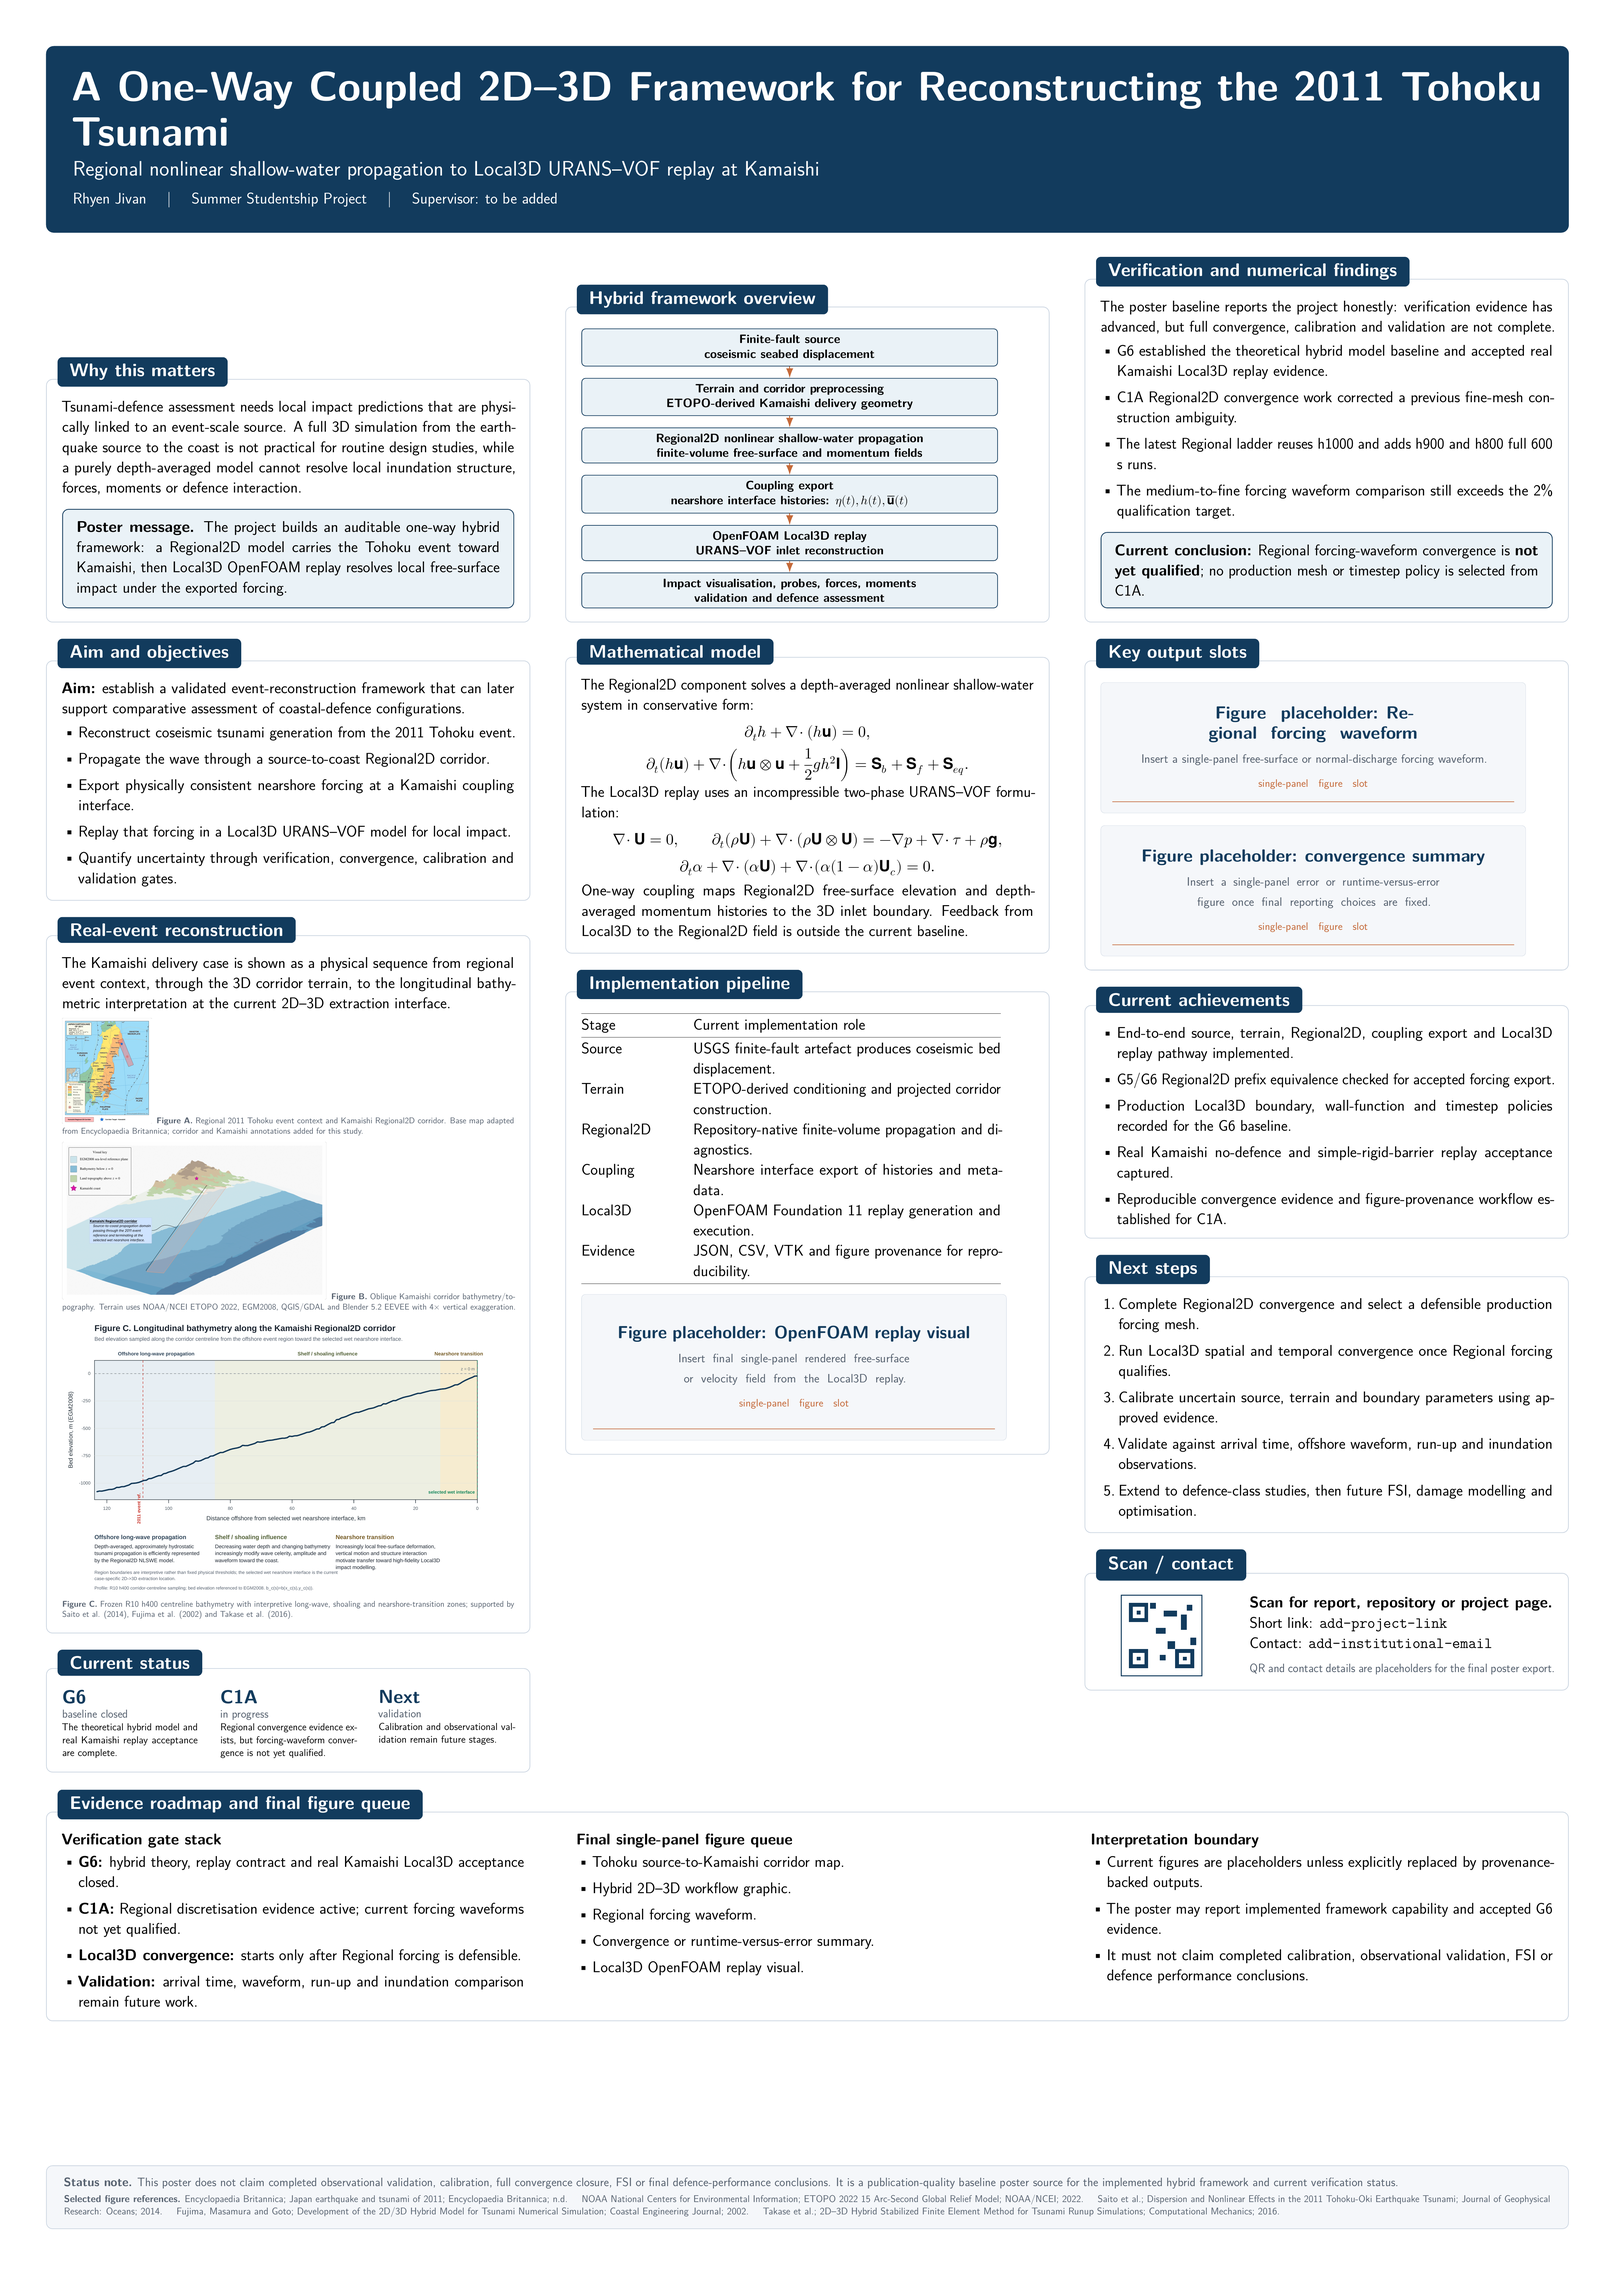
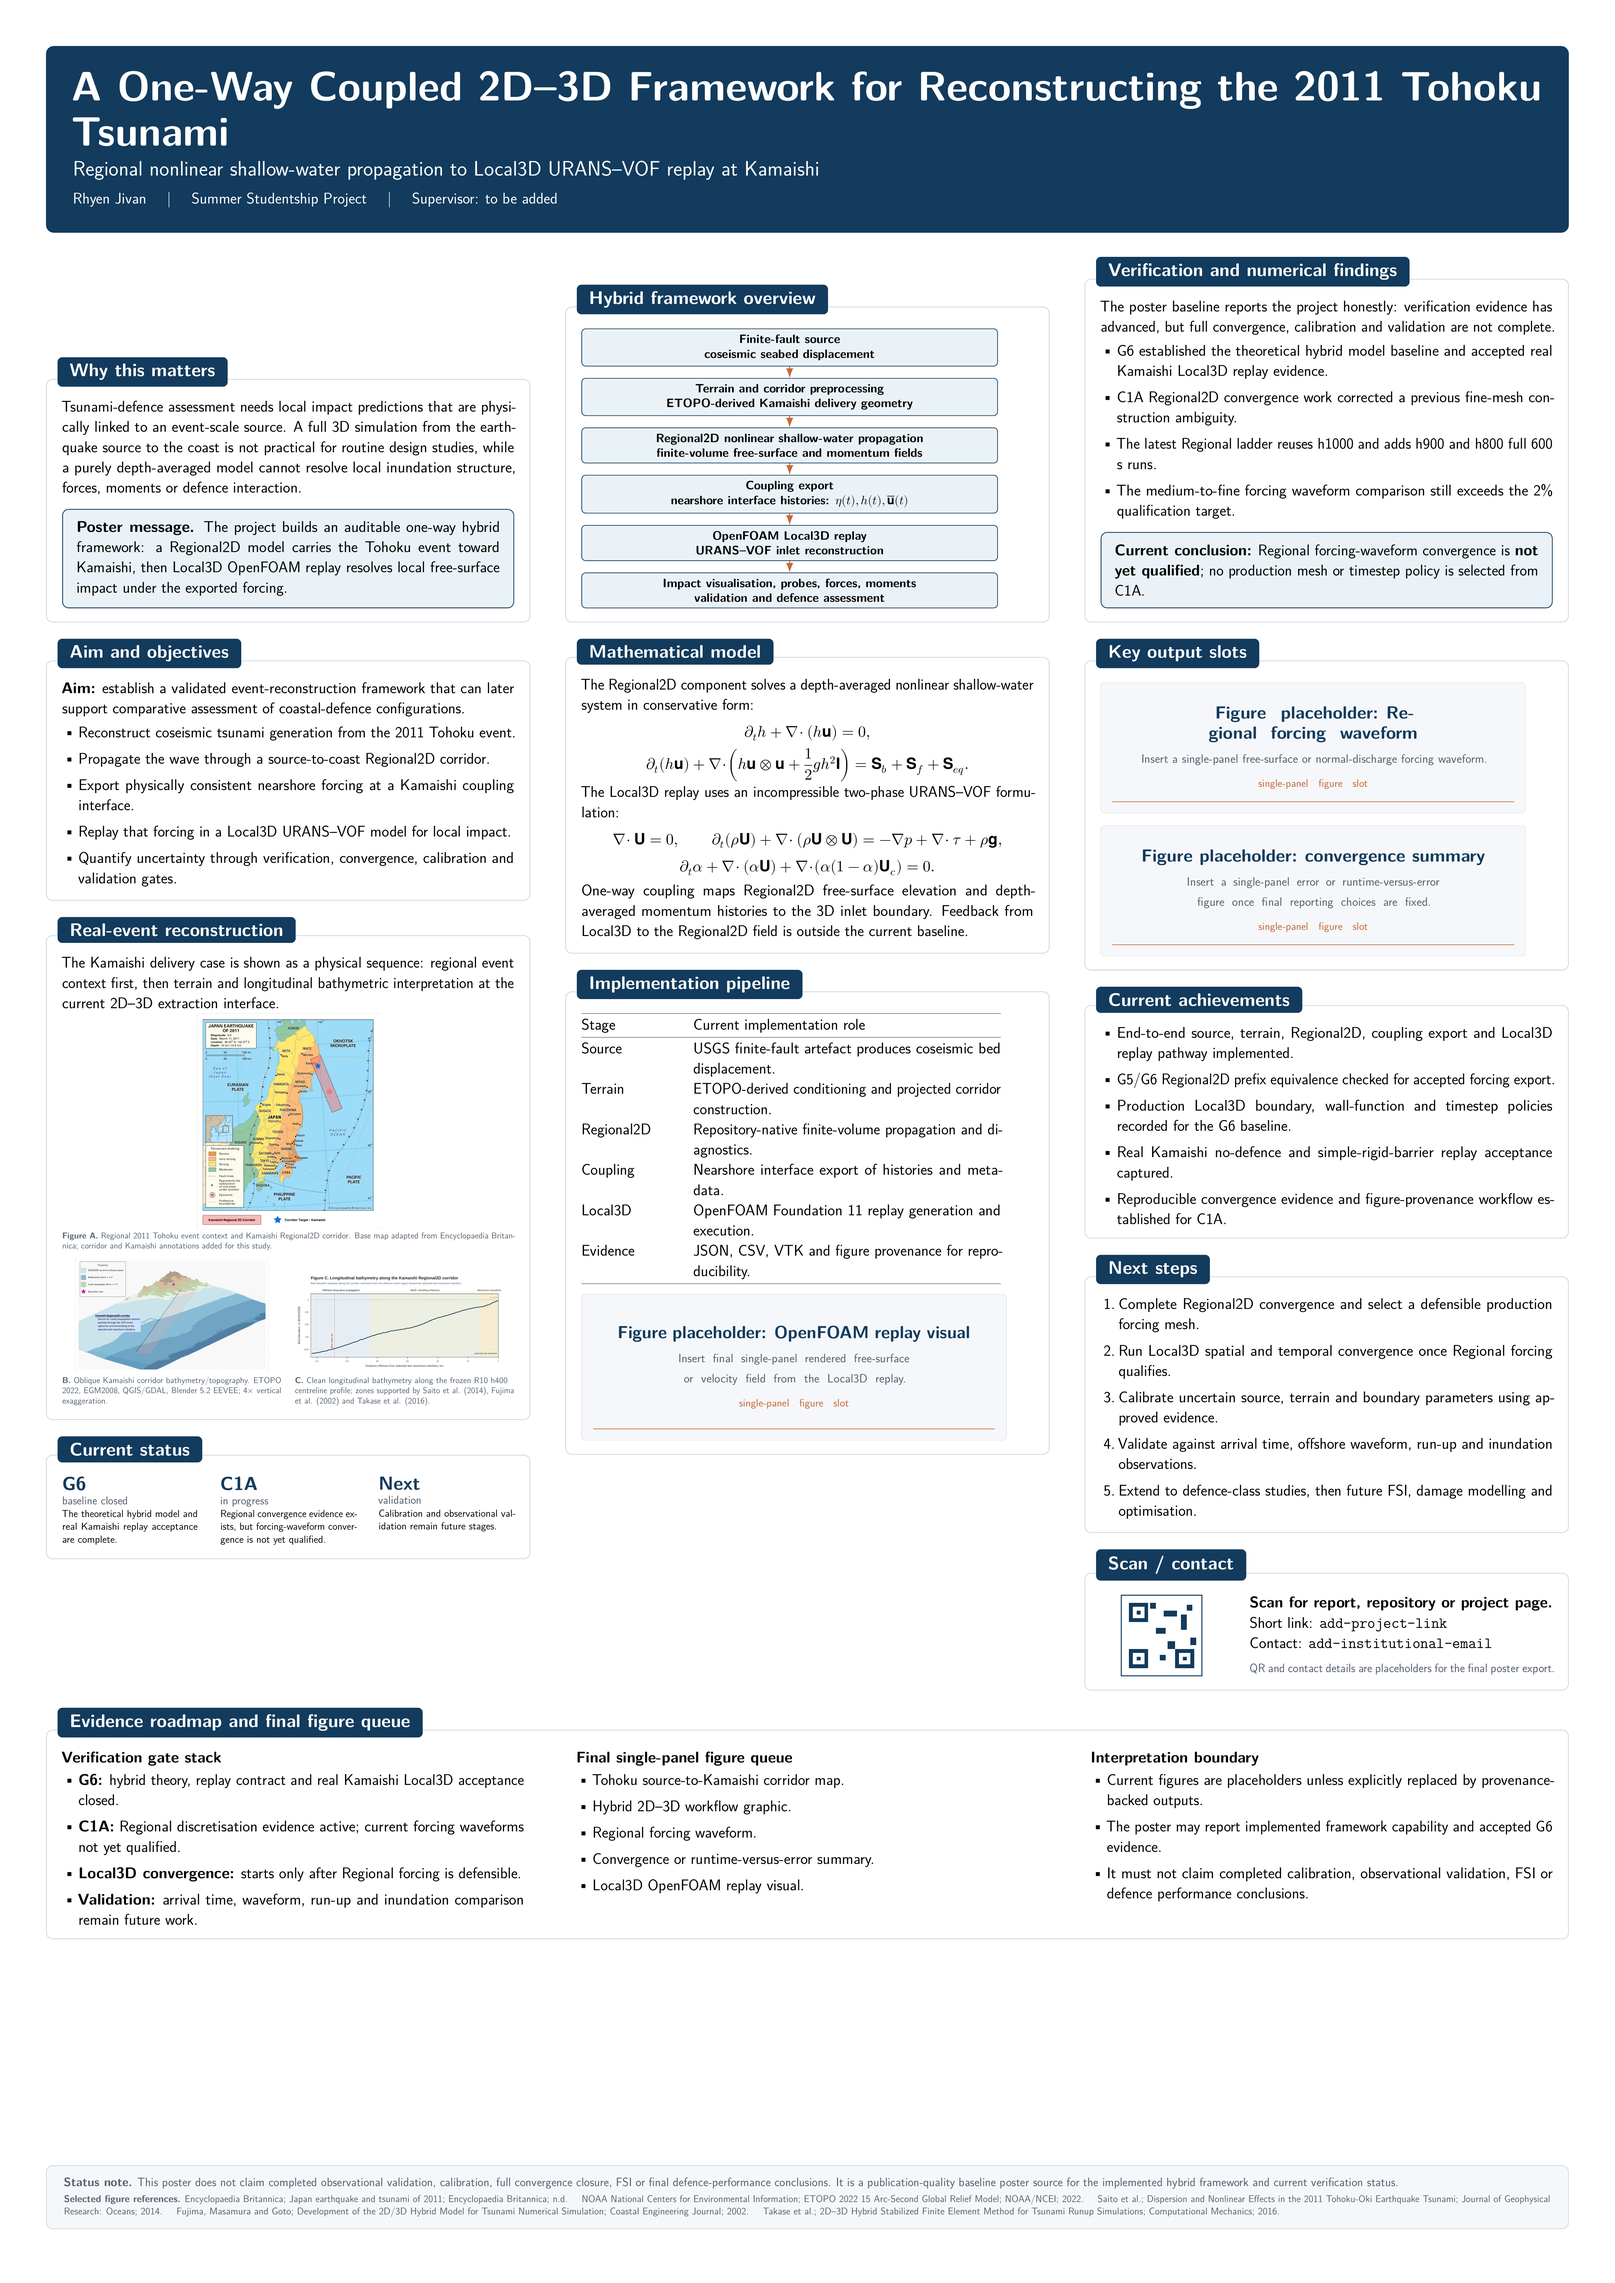
docs(poster): strengthen real-event reconstruction layout

Changed region(s): [[0.0312, 0.4054, 0.3121, 0.8733], [0.6865, 0.7797, 0.9674, 0.8733], [0.3745, 0.7797, 0.4993, 0.8733]]

diff --git a/deliverables/poster/poster.tex b/deliverables/poster/poster.tex
@@ -14,7 +14,7 @@
 \usepackage[most]{tcolorbox}
 \usepackage{tikz}
 \usetikzlibrary{arrows.meta,calc,positioning,shapes.geometric}
-\graphicspath{{./}{../figures/r22_poster/publication/}}
+\graphicspath{{./}{../figures/r23_poster_refinement/publication/}{../figures/r22_poster/publication/}}
 
 \IfFontExistsTF{TeX Gyre Heros}{
   \setmainfont{TeX Gyre Heros}
@@ -44,7 +44,7 @@
 \newcommand{\PosterSubtitle}[1]{{\fontsize{31}{39}\selectfont #1\par}}
 \newcommand{\PosterMeta}[1]{{\fontsize{23}{30}\selectfont #1\par}}
 \newcommand{\SmallNote}[1]{{\fontsize{18}{23}\selectfont\color{PosterMuted} #1}}
-\newcommand{\PosterCaption}[1]{{\fontsize{12.5}{15.2}\selectfont\color{PosterMuted}\RaggedRight #1\par}}
+\newcommand{\PosterCaption}[1]{\par{\fontsize{12.5}{15.2}\selectfont\color{PosterMuted}\RaggedRight #1\par}}
 \newcommand{\PosterReferenceText}[1]{{\fontsize{14.5}{18}\selectfont\color{PosterMuted}\RaggedRight #1\par}}
 \newcommand{\Metric}[3]{%
   \begin{minipage}[t]{0.30\linewidth}
@@ -201,20 +201,25 @@
   \end{PosterBox}
 
   \begin{PosterBox}{Real-event reconstruction}
-    The Kamaishi delivery case is shown as a physical sequence from regional event context, through the 3D corridor terrain, to the longitudinal bathymetric interpretation at the current 2D--3D extraction interface.
+    The Kamaishi delivery case is shown as a physical sequence: regional event context first, then terrain and longitudinal bathymetric interpretation at the current 2D--3D extraction interface.
 
-    \vspace{3mm}
+    \vspace{2mm}
     \centering
-    \includegraphics[height=55mm,keepaspectratio]{\detokenize{Studentship - Figures.png}}
+    \includegraphics[width=0.96\linewidth,height=112mm,keepaspectratio]{\detokenize{Studentship - Figures.png}}
     \PosterCaption{\textbf{Figure A.} Regional 2011 Tohoku event context and Kamaishi Regional2D corridor. Base map adapted from Encyclopaedia Britannica; corridor and Kamaishi annotations added for this study.}
 
-    \vspace{3mm}
-    \includegraphics[width=0.92\linewidth,height=82mm,keepaspectratio]{\detokenize{Studentship - Figures (1).png}}
-    \PosterCaption{\textbf{Figure B.} Oblique Kamaishi corridor bathymetry/topography. Terrain uses NOAA/NCEI ETOPO 2022, EGM2008, QGIS/GDAL and Blender 5.2 EEVEE with 4\(\times\) vertical exaggeration.}
-
-    \vspace{3mm}
-    \includegraphics[width=\linewidth,height=145mm,keepaspectratio]{figure_C3_longitudinal_bathymetry_poster.pdf}
-    \PosterCaption{\textbf{Figure C.} Frozen R10 h400 centreline bathymetry with interpretive long-wave, shoaling and nearshore-transition zones; supported by Saito et al. (2014), Fujima et al. (2002) and Takase et al. (2016).}
+    \vspace{3.5mm}
+    \begin{minipage}[t]{0.485\linewidth}
+      \centering
+      \includegraphics[width=\linewidth,height=60mm,keepaspectratio]{\detokenize{Studentship - Figures (1).png}}
+      \PosterCaption{\textbf{B.} Oblique Kamaishi corridor bathymetry/topography. ETOPO 2022, EGM2008, QGIS/GDAL, Blender 5.2 EEVEE; 4\(\times\) vertical exaggeration.}
+    \end{minipage}
+    \hfill
+    \begin{minipage}[t]{0.485\linewidth}
+      \centering
+      \includegraphics[width=\linewidth,height=60mm,keepaspectratio]{figure_C4_longitudinal_bathymetry_poster_clean.pdf}
+      \PosterCaption{\textbf{C.} Clean longitudinal bathymetry along the frozen R10 h400 centreline profile; zones supported by Saito et al. (2014), Fujima et al. (2002) and Takase et al. (2016).}
+    \end{minipage}
   \end{PosterBox}
 
   \begin{PosterBox}{Current status}
